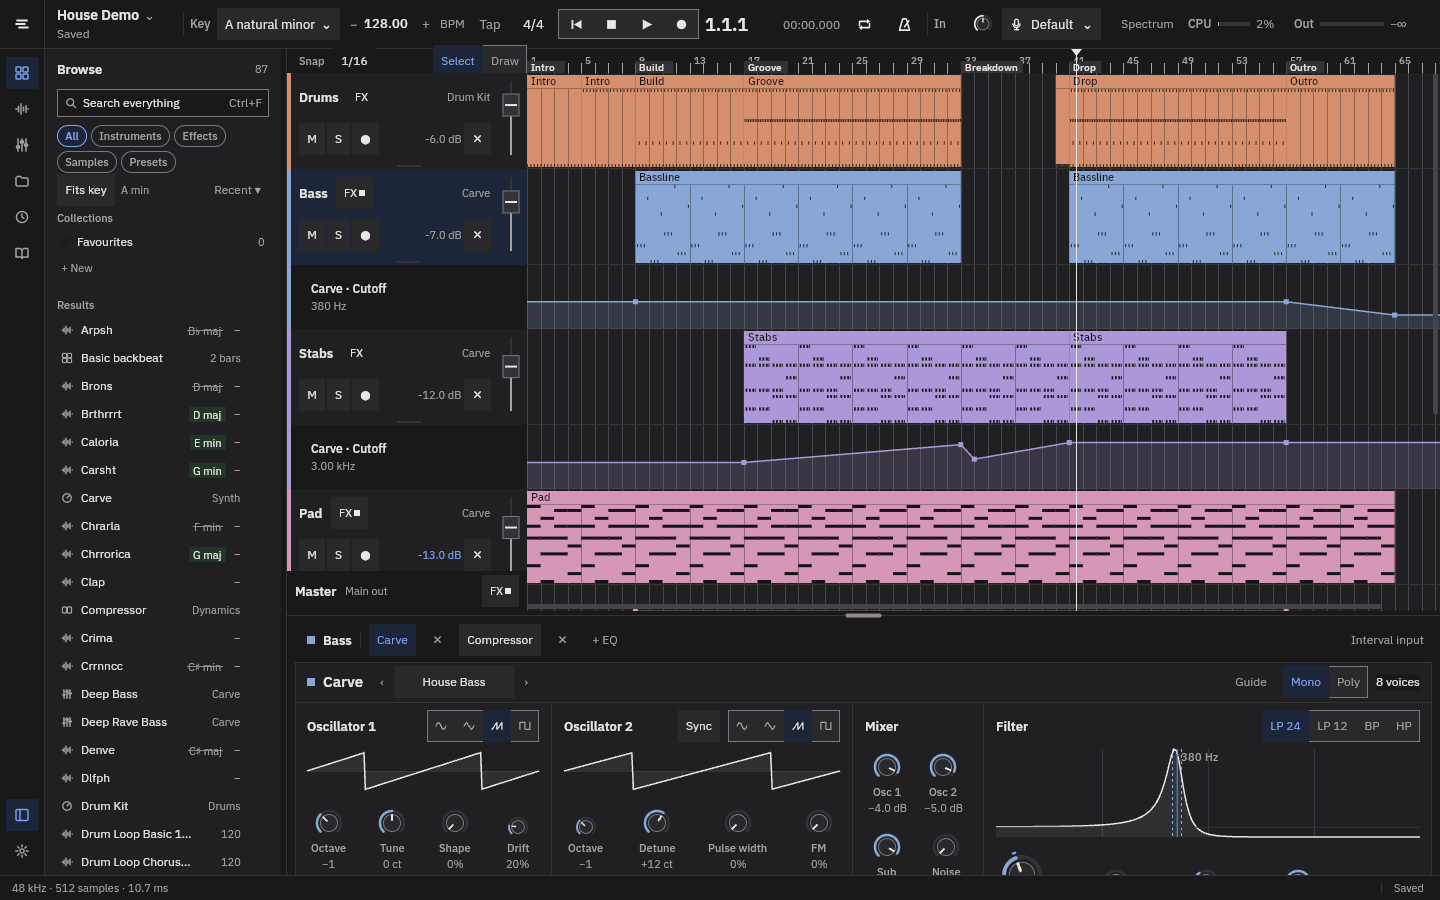
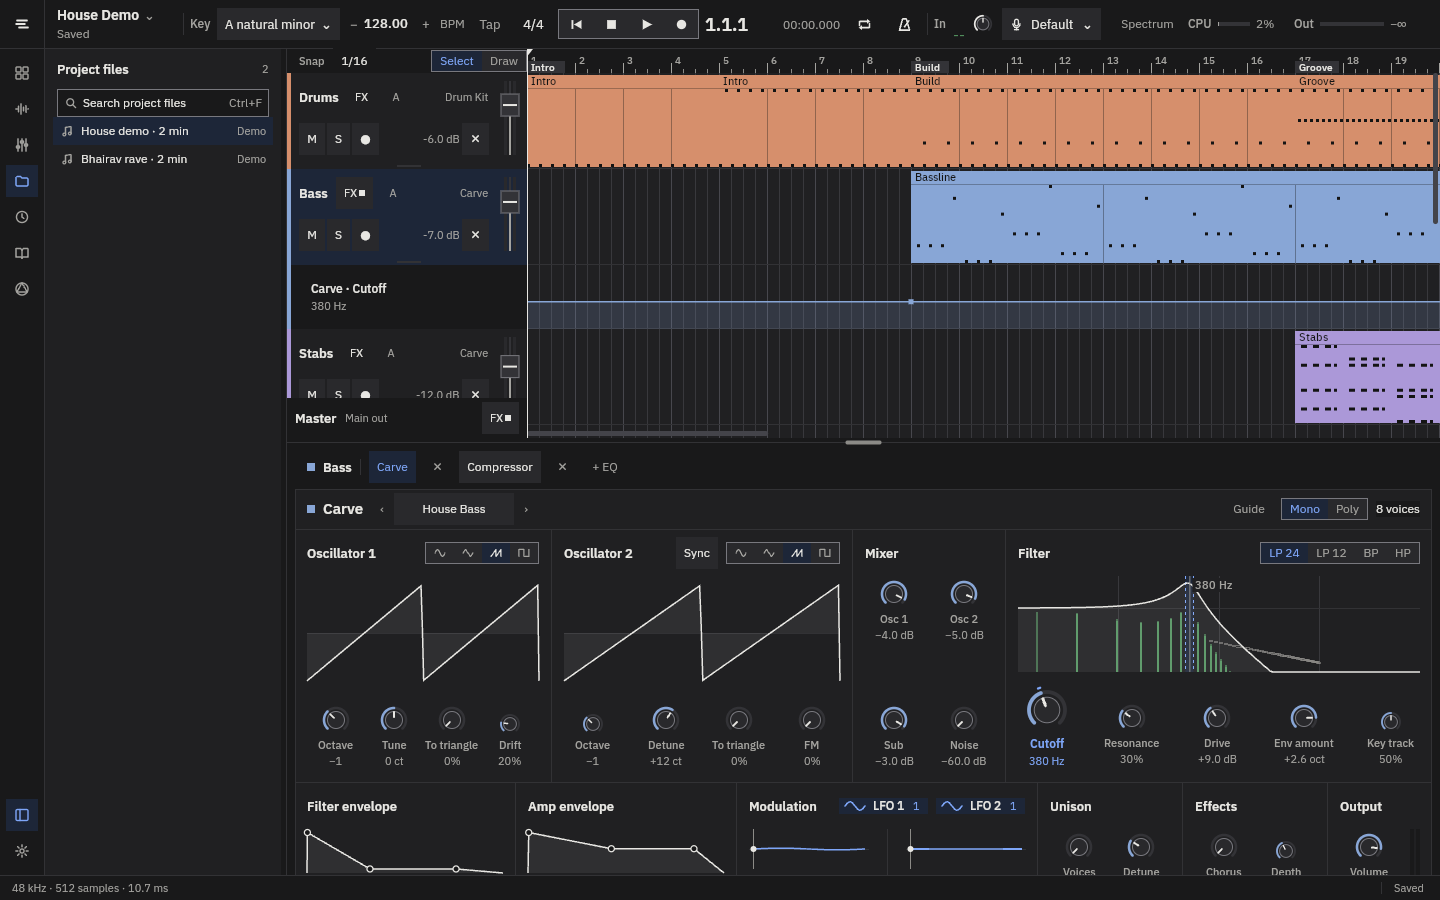
README and screenshots: the lesson panel, the step sequencer, meters, automation button, the filter's harmonics; Harmonics lesson no longer says 'third' (it called up the chord glossary)
Claude-Session: https://claude.ai/code/session_01BTyaLLDAUdWyCn9U23KRHY

diff --git a/ui/src/lessons/course.rs b/ui/src/lessons/course.rs
@@ -354,7 +354,7 @@ pub const LESSONS: &[Lesson] = &[
                 |_| Some(Target::OscWave(1)),
             ),
             recipe(
-                "And the saw, the third button.",
+                "And the saw, the jagged ramp button.",
                 "Every harmonic, odd and even, all strong: the brightest, buzziest wave. That's why most synth sounds start from a saw - there's the most there to shape.",
                 "The third wave button.",
                 |s| carve(s).is_some_and(|p| p.osc1.waveform == Waveform::Saw),

diff --git a/README.md b/README.md
@@ -4,16 +4,27 @@ A small DAW written in Rust, built to teach people how to make music. It has a
 subtractive synth, a drum kit, audio recording, and 66 hands-on lessons that
 run inside the app.
 
-![Shor, Studio theme: the House demo with Carve open](docs/screenshots/house-studio.png)
-![Shor, Daylight theme](docs/screenshots/house-daylight.png)
+![Shor, Studio theme: the House demo with Carve open, its filter drawn over the sound's harmonics](docs/screenshots/house-studio.png)
+![A lesson running in the sidebar: each step checks itself, then explains why it sounds the way it does](docs/screenshots/lesson-daylight.png)
+![Daylight theme: the Bhairav rave demo with the drum step sequencer open](docs/screenshots/bhairav-daylight.png)
 
 ## What's in it
 
 - **Arrangement:** audio and MIDI tracks, looping and linked clips,
-  automation, markers, split and duplicate, full undo.
+  markers, split and duplicate, full undo. Every track's fader has a level
+  meter built in.
+- **Automation:** the A button on a track lists every knob it can move (the
+  last one you turned first); right-clicking any knob works too.
 - **Carve:** a subtractive synth with two oscillators, sub, noise, filter,
-  envelopes, two LFOs, unison, chorus and reverb, plus presets.
-- **Drum Kit:** a step grid, and a piano roll that shows the song's key.
+  envelopes, two LFOs, unison, chorus and reverb, plus presets. The
+  displays show what each control does: the wave bends as you turn Shape,
+  and the filter curve is drawn over the sound's own harmonics.
+- **Drum Kit:** a step sequencer - paint and erase steps with one drag,
+  accents and ghost notes, swing, Humanize, 1/32 and triplet rolls - with
+  per-pad mute, level and tuning.
+- **Piano roll:** shows the song's key (scale notes, sargam or intervals),
+  one-click chords, and moves notes by scale step or octave from the
+  keyboard.
 - **Effects:** a compressor and a four-band EQ (low cut, shelves, bell) on
   every track and on the master bus.
 - **Recording:** record from any audio input, like a guitar interface or a mic.
@@ -21,8 +32,15 @@ run inside the app.
   collections, and a *Fits key* filter that hides samples that would clash
   with your song's key.
 - **Spectrum analyzer** and **WAV export**.
-- **Learn:** interactive lessons that check your work as you go.
-  - Beats, bass and chords, then velocity, note length and timing in the piano roll.
+- **Learn:** 66 interactive lessons that run in the sidebar beside the
+  controls they point at. Each step checks itself, glows the control to use,
+  can be shown to you ("Show me"), then pauses to explain why it sounds the
+  way it does, with Before / After to hear the difference. "More" opens the
+  deeper story behind ideas like decibels, harmonics or resonance.
+  - Beats, bass and chords.
+  - Sound basics: loudness and decibels, pitch and frequency, harmonics and tone.
+  - Piano roll and step sequencer: accents and ghost notes, note length and
+    timing, painting beats, swing, hi-hat rolls.
   - Theory: octaves, scales, keys, major and minor, intervals by ear, triads,
     progressions, melody over chords, 7th chords, raag basics (with sargam
     note names).
@@ -30,7 +48,7 @@ run inside the app.
   - Carve from waves to sound recipes (flute, tanpura, lo-fi keys...).
   - Mixing: levels, EQ, compression, and finishing a mix.
   - How house and raag-based tracks are arranged.
-  - Full projects: a house track, a lo-fi beat, Bollywood lo-fi.
+  - Full projects: a house track, a lo-fi beat, Bollywood lo-fi, desi trap.
   - *Sound match*: read a sound's spectrum, then rebuild it.
 - **Two demo songs:** a two-minute house track and a Raag Bhairav rave.
 
